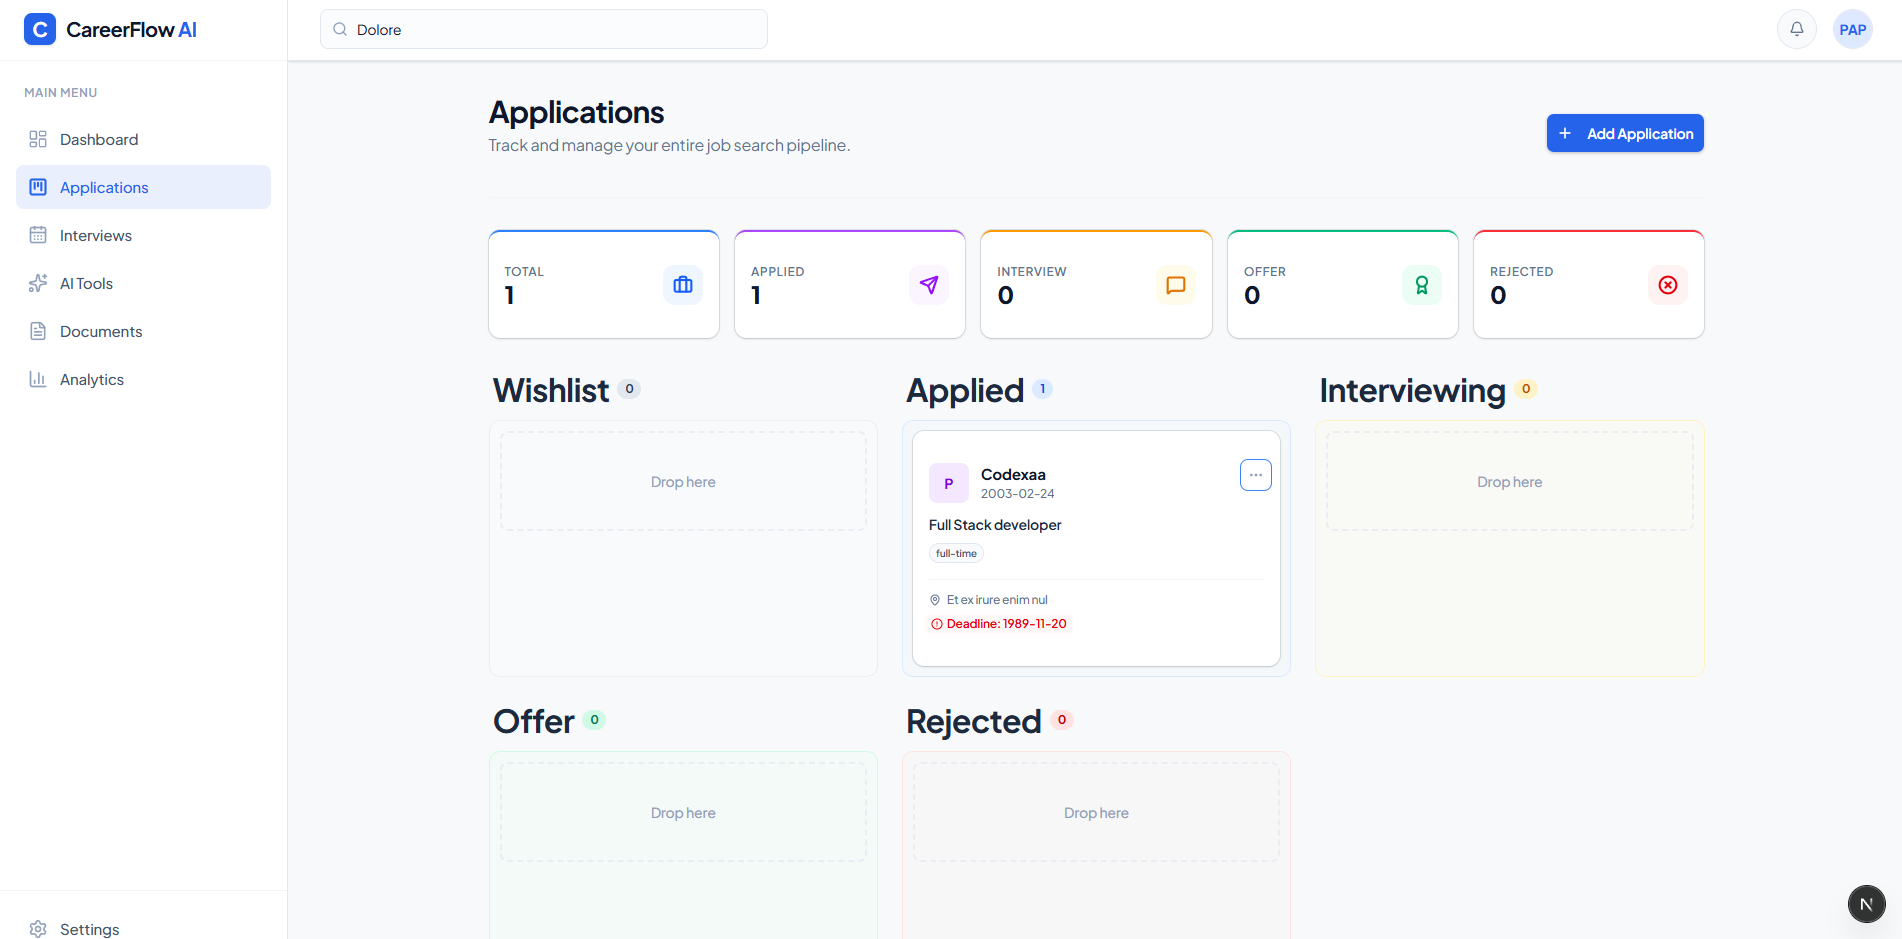
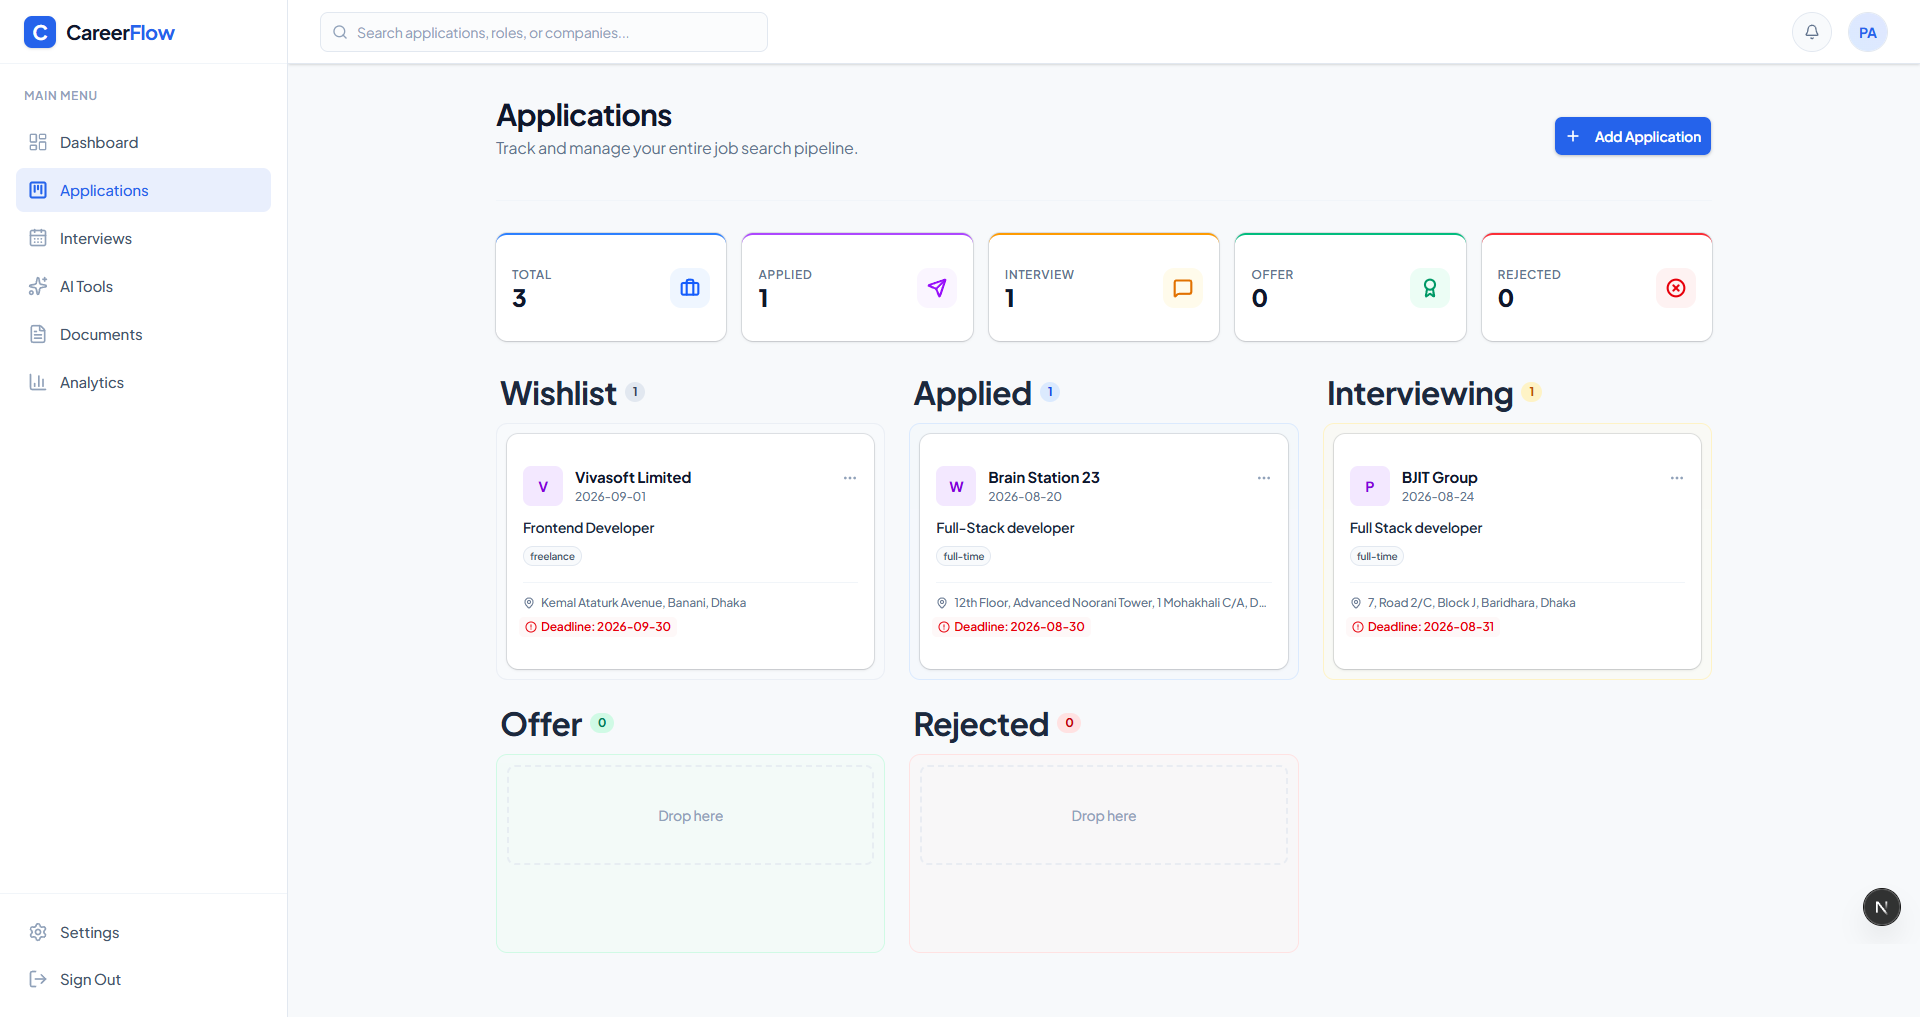
feat: refactor components to use AuthAwareLink, update image source in HeroTabs, and improve Navbar styling

diff --git a/components/interviews/InterviewsClient.tsx b/components/interviews/InterviewsClient.tsx
@@ -1,9 +1,9 @@
 'use client';
 
-import { useState, useMemo } from 'react';
-import { Plus, Calendar, CheckCircle2, XCircle, Clock } from 'lucide-react';
 import { Button } from '@/components/ui/button';
 import { Card, CardContent } from '@/components/ui/card';
+import { Calendar, CheckCircle2, Clock, Plus, XCircle } from 'lucide-react';
+import { useMemo, useState } from 'react';
 import AddInterview from './AddInterview';
 import InterviewCard from './InterviewCard';
 
@@ -27,60 +27,84 @@ interface InterviewsClientProps {
   applications: any[];
 }
 
-export default function InterviewsClient({ initialInterviews, applications }: InterviewsClientProps) {
-  const [interviews, setInterviews] = useState<IInterviewData[]>(initialInterviews);
+export default function InterviewsClient({
+  initialInterviews,
+  applications,
+}: InterviewsClientProps) {
+  const [interviews, setInterviews] =
+    useState<IInterviewData[]>(initialInterviews);
   const [isAddOpen, setIsAddOpen] = useState(false);
-  const [activeTab, setActiveTab] = useState<'upcoming' | 'past' | 'completed'>('upcoming');
+  const [activeTab, setActiveTab] = useState<'upcoming' | 'past' | 'completed'>(
+    'upcoming'
+  );
 
   const updateInterviewsState = (updatedInterview: IInterviewData) => {
     setInterviews((prev) => {
-      const exists = prev.find(i => i._id === updatedInterview._id);
+      const exists = prev.find((i) => i._id === updatedInterview._id);
       if (exists) {
-        return prev.map(i => i._id === updatedInterview._id ? updatedInterview : i);
+        return prev.map((i) =>
+          i._id === updatedInterview._id ? updatedInterview : i
+        );
       }
       return [updatedInterview, ...prev];
     });
   };
 
   const removeInterviewState = (id: string) => {
-    setInterviews((prev) => prev.filter(i => i._id !== id));
+    setInterviews((prev) => prev.filter((i) => i._id !== id));
   };
 
   const now = new Date();
-  
+
   // Tabs filtering logic
   const filteredInterviews = useMemo(() => {
-    return interviews.filter((interview) => {
-      if (interview.status === 'cancelled') return false;
-      
-      const interviewDateTime = new Date(`${interview.interviewDate}T${interview.interviewTime}`);
-      
-      if (activeTab === 'completed') {
-        return interview.status === 'completed';
-      }
-      
-      if (activeTab === 'upcoming') {
-        return interview.status === 'scheduled' && interviewDateTime >= now;
-      }
-      
-      if (activeTab === 'past') {
-        return interview.status === 'scheduled' && interviewDateTime < now;
-      }
-      
-      return false;
-    }).sort((a, b) => {
-      const dateA = new Date(`${a.interviewDate}T${a.interviewTime}`).getTime();
-      const dateB = new Date(`${b.interviewDate}T${b.interviewTime}`).getTime();
-      // Sort upcoming ascending (closest first), others descending
-      return activeTab === 'upcoming' ? dateA - dateB : dateB - dateA;
-    });
+    return interviews
+      .filter((interview) => {
+        if (interview.status === 'cancelled') return false;
+
+        const interviewDateTime = new Date(
+          `${interview.interviewDate}T${interview.interviewTime}`
+        );
+
+        if (activeTab === 'completed') {
+          return interview.status === 'completed';
+        }
+
+        if (activeTab === 'upcoming') {
+          return interview.status === 'scheduled' && interviewDateTime >= now;
+        }
+
+        if (activeTab === 'past') {
+          return interview.status === 'scheduled' && interviewDateTime < now;
+        }
+
+        return false;
+      })
+      .sort((a, b) => {
+        const dateA = new Date(
+          `${a.interviewDate}T${a.interviewTime}`
+        ).getTime();
+        const dateB = new Date(
+          `${b.interviewDate}T${b.interviewTime}`
+        ).getTime();
+        // Sort upcoming ascending (closest first), others descending
+        return activeTab === 'upcoming' ? dateA - dateB : dateB - dateA;
+      });
   }, [interviews, activeTab]);
 
   // Summary Metrics
   const totalInterviews = interviews.length;
-  const upcomingCount = interviews.filter(i => i.status === 'scheduled' && new Date(`${i.interviewDate}T${i.interviewTime}`) >= now).length;
-  const completedCount = interviews.filter(i => i.status === 'completed').length;
-  const cancelledCount = interviews.filter(i => i.status === 'cancelled').length;
+  const upcomingCount = interviews.filter(
+    (i) =>
+      i.status === 'scheduled' &&
+      new Date(`${i.interviewDate}T${i.interviewTime}`) >= now
+  ).length;
+  const completedCount = interviews.filter(
+    (i) => i.status === 'completed'
+  ).length;
+  const cancelledCount = interviews.filter(
+    (i) => i.status === 'cancelled'
+  ).length;
 
   return (
     <div className="flex-1 space-y-6 md:space-y-8 p-4 md:p-8 pt-6 max-w-[1600px] mx-auto w-full">
@@ -91,12 +115,13 @@ export default function InterviewsClient({ initialInterviews, applications }: In
             Interviews
           </h2>
           <p className="text-sm text-slate-500 mt-1">
-            Manage your upcoming interviews, track interview progress, and stay prepared.
+            Manage your upcoming interviews, track interview progress, and stay
+            prepared.
           </p>
         </div>
-        <Button 
+        <Button
           onClick={() => setIsAddOpen(true)}
-          className="bg-primary hover:bg-primary/90 text-white font-semibold px-5 py-2.5 rounded-lg shadow-sm w-full sm:w-auto"
+          className="h-10 bg-primary hover:bg-primary/95 text-white font-semibold rounded-lg shadow-sm hover:shadow-[0_4px_14px_0_rgba(37,99,235,0.2)] transition-all"
         >
           <Plus className="w-4 h-4 mr-2" />
           Schedule Interview
@@ -109,8 +134,12 @@ export default function InterviewsClient({ initialInterviews, applications }: In
           <CardContent className="p-5">
             <div className="flex justify-between items-start">
               <div>
-                <p className="text-sm font-medium text-slate-500 mb-1">Total Interviews</p>
-                <h3 className="text-2xl font-bold text-slate-900">{totalInterviews}</h3>
+                <p className="text-sm font-medium text-slate-500 mb-1">
+                  Total Interviews
+                </p>
+                <h3 className="text-2xl font-bold text-slate-900">
+                  {totalInterviews}
+                </h3>
               </div>
               <div className="w-8 h-8 rounded-full bg-slate-100 flex items-center justify-center">
                 <Calendar className="w-4 h-4 text-slate-600" />
@@ -118,13 +147,17 @@ export default function InterviewsClient({ initialInterviews, applications }: In
             </div>
           </CardContent>
         </Card>
-        
+
         <Card className="border-slate-200/60 shadow-sm bg-white">
           <CardContent className="p-5">
             <div className="flex justify-between items-start">
               <div>
-                <p className="text-sm font-medium text-slate-500 mb-1">Upcoming</p>
-                <h3 className="text-2xl font-bold text-amber-600">{upcomingCount}</h3>
+                <p className="text-sm font-medium text-slate-500 mb-1">
+                  Upcoming
+                </p>
+                <h3 className="text-2xl font-bold text-amber-600">
+                  {upcomingCount}
+                </h3>
               </div>
               <div className="w-8 h-8 rounded-full bg-amber-50 flex items-center justify-center">
                 <Clock className="w-4 h-4 text-amber-500" />
@@ -137,8 +170,12 @@ export default function InterviewsClient({ initialInterviews, applications }: In
           <CardContent className="p-5">
             <div className="flex justify-between items-start">
               <div>
-                <p className="text-sm font-medium text-slate-500 mb-1">Completed</p>
-                <h3 className="text-2xl font-bold text-emerald-600">{completedCount}</h3>
+                <p className="text-sm font-medium text-slate-500 mb-1">
+                  Completed
+                </p>
+                <h3 className="text-2xl font-bold text-emerald-600">
+                  {completedCount}
+                </h3>
               </div>
               <div className="w-8 h-8 rounded-full bg-emerald-50 flex items-center justify-center">
                 <CheckCircle2 className="w-4 h-4 text-emerald-500" />
@@ -151,8 +188,12 @@ export default function InterviewsClient({ initialInterviews, applications }: In
           <CardContent className="p-5">
             <div className="flex justify-between items-start">
               <div>
-                <p className="text-sm font-medium text-slate-500 mb-1">Cancelled</p>
-                <h3 className="text-2xl font-bold text-red-600">{cancelledCount}</h3>
+                <p className="text-sm font-medium text-slate-500 mb-1">
+                  Cancelled
+                </p>
+                <h3 className="text-2xl font-bold text-red-600">
+                  {cancelledCount}
+                </h3>
               </div>
               <div className="w-8 h-8 rounded-full bg-red-50 flex items-center justify-center">
                 <XCircle className="w-4 h-4 text-red-500" />
@@ -187,14 +228,19 @@ export default function InterviewsClient({ initialInterviews, applications }: In
           <div className="w-16 h-16 bg-primary/10 rounded-full flex items-center justify-center mb-4">
             <Calendar className="w-8 h-8 text-primary" />
           </div>
-          <h3 className="text-lg font-bold text-slate-900 mb-2">No interviews {activeTab === 'upcoming' ? 'scheduled yet' : 'found'}</h3>
+          <h3 className="text-lg font-bold text-slate-900 mb-2">
+            No interviews {activeTab === 'upcoming' ? 'scheduled yet' : 'found'}
+          </h3>
           <p className="text-sm text-slate-500 max-w-sm mb-6">
-            {activeTab === 'upcoming' 
-              ? 'Schedule your first interview and keep track of every opportunity.' 
+            {activeTab === 'upcoming'
+              ? 'Schedule your first interview and keep track of every opportunity.'
               : 'There are no interviews matching this category.'}
           </p>
           {activeTab === 'upcoming' && (
-            <Button onClick={() => setIsAddOpen(true)} className="bg-primary hover:bg-primary/90 text-white">
+            <Button
+              onClick={() => setIsAddOpen(true)}
+              className="bg-primary hover:bg-primary/90 text-white"
+            >
               <Plus className="w-4 h-4 mr-2" /> Schedule Interview
             </Button>
           )}
@@ -202,9 +248,9 @@ export default function InterviewsClient({ initialInterviews, applications }: In
       ) : (
         <div className="grid grid-cols-1 md:grid-cols-2 lg:grid-cols-3 xl:grid-cols-4 gap-4">
           {filteredInterviews.map((interview) => (
-            <InterviewCard 
-              key={interview._id} 
-              interview={interview} 
+            <InterviewCard
+              key={interview._id}
+              interview={interview}
               onUpdate={updateInterviewsState}
               onDelete={removeInterviewState}
               applications={applications}

diff --git a/components/home/Pricing.tsx b/components/home/Pricing.tsx
@@ -9,7 +9,6 @@ import {
 } from '@/components/ui/card';
 import { pricingPlans } from '@/data/pricing';
 import { Check } from 'lucide-react';
-import Link from 'next/link';
 import AuthAwareLink from './AuthAwareLink';
 
 export default function Pricing() {
@@ -84,11 +83,16 @@ export default function Pricing() {
                 <Button
                   size="lg"
                   variant={plan.popular ? 'outline' : 'outline'}
-                  render={<AuthAwareLink href={plan.href} className="w-full flex items-center justify-center" />}
+                  render={
+                    <AuthAwareLink
+                      href={plan.href}
+                      className="w-full flex items-center justify-center"
+                    />
+                  }
                   className={`w-full font-bold h-12 transition-all text-white ${
                     plan.popular
-                      ? 'shadow-[0_4px_14px_0_rgba(37,99,235,0.2)] hover:shadow-[0_6px_20px_rgba(37,99,235,0.3)] hover:-translate-y-0.5 '
-                      : 'border-slate-200 text-slate-700 hover:bg-slate-50'
+                      ? 'shadow-[0_4px_14px_0_rgba(37,99,235,0.2)] hover:shadow-[0_6px_20px_rgba(37,99,235,0.3)] hover:-translate-y-0.5 text-slate-700'
+                      : 'border-slate-200 text-slate-700 hover:bg-slate-50 '
                   }`}
                 >
                   {plan.cta}

diff --git a/components/layout/Navbar.tsx b/components/layout/Navbar.tsx
@@ -91,7 +91,7 @@ export default function Navbar() {
                   <div className="w-9 h-9 rounded-full bg-primary/10 text-primary flex items-center justify-center font-bold text-sm border border-primary/20">
                     {getInitials(session.user?.name)}
                   </div>
-                  <span className="text-sm font-semibold text-foreground max-w-[120px] truncate">
+                  <span className="text-sm font-semibold text-foreground max-w-30 truncate">
                     {session.user?.name}
                   </span>
                 </div>
@@ -166,7 +166,7 @@ export default function Navbar() {
                   <Link
                     href="/dashboard"
                     onClick={() => setIsMobileMenuOpen(false)}
-                    className="block w-full text-center px-4 py-3 rounded-md text-base font-medium text-white bg-primary hover:bg-primary/95 transition-all shadow-sm flex items-center justify-center gap-2"
+                    className="w-full text-center px-4 py-3 rounded-md text-base font-medium text-white bg-primary hover:bg-primary/95 transition-all shadow-sm flex items-center justify-center gap-2"
                   >
                     Go to Dashboard <ArrowRight className="w-4 h-4" />
                   </Link>

diff --git a/components/home/HeroTabs.tsx b/components/home/HeroTabs.tsx
@@ -80,7 +80,7 @@ export default function HeroTabs() {
           className={`absolute inset-0 transition-opacity duration-500 ease-in-out ${activeTab === 'interviews' ? 'opacity-100 z-10' : 'opacity-0 z-0'}`}
         >
           <Image
-            src="/application.png"
+            src="/interviews.png"
             alt="Interviews Preview"
             fill
             priority

diff --git a/components/home/Cta.tsx b/components/home/Cta.tsx
@@ -1,4 +1,3 @@
-import { Button } from '@/components/ui/button';
 import { ArrowRight, Star } from 'lucide-react';
 import AuthAwareLink from './AuthAwareLink';
 
